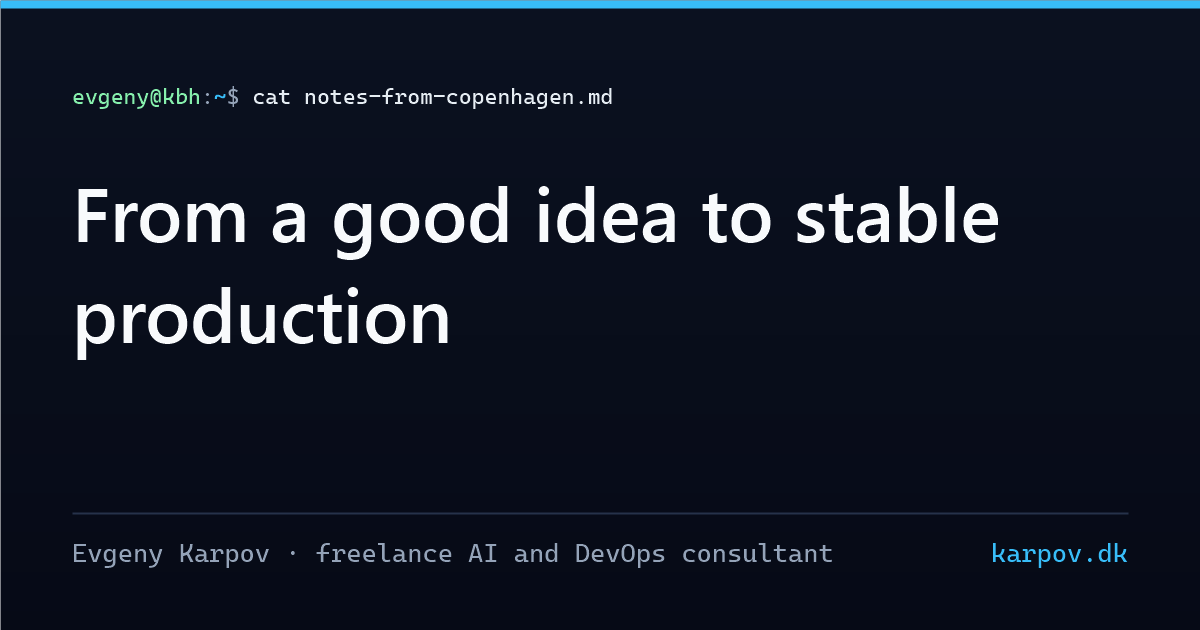
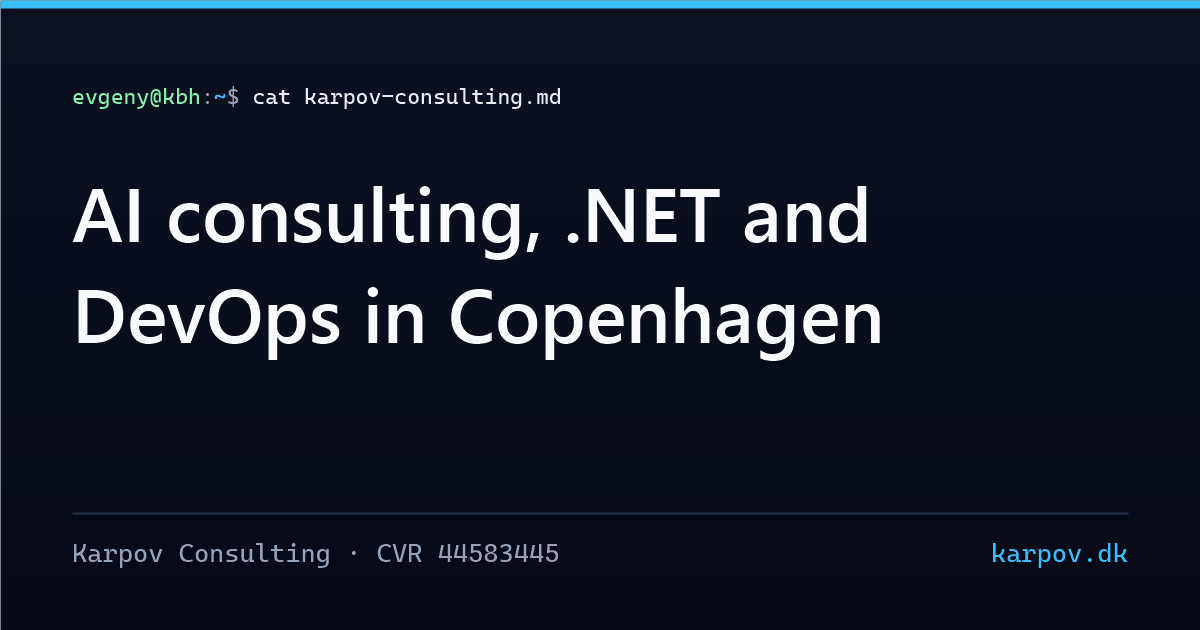
Round 3 review fixes: contract deliverables, clearer terms, polish
Round 3 scores: Claude 7.5/10, GPT-6.2 Sol 7/10. Changes:

- Portfolio: the contract section opens with the Arbejdstilsynet and
  MyPaperFlow proof and lists typical tasks instead of job titles; no
  repeated "where development and operations meet" lines.
- MyPaperFlow card labelled "Tidligere arbejde" / "Previous work" (it was
  employment at Boyum IT, not a contract).
- Vintønden card and case tell the same verifiable story, including the
  table-booking fix.
- AI page: AI experience in plain, checkable terms (owner's choice of
  general wording), the 4,500 kr. credit says what it is deducted from,
  the allergen example is replaced with an approved-text example.
- Home: offer note rewritten as a sentence; Danish long dates in lists.
- Contact: reply within one working day (owner confirmed).
- Blog list: the AI-assembled digest is left out of /posts/ (own tag
  page, linked from the intro) via a list.html override.
- Post CTA: two buttons, contract work linked in the text.
- Skip link keeps native focus (excluded from smooth scroll).
- Business JSON-LD url is the homepage.
- Share images for home and lists name the offer and the CVR.
- Phone: stacked buttons share one width. Typo "modellens" in a digest.

diff --git a/layouts/list.html b/layouts/list.html
@@ -1,0 +1,128 @@
+{{- /* Site override of PaperMod's list.html: identical except for the digest filter marked below. */ -}}
+{{- define "main" }}
+
+{{- if (and site.Params.profileMode.enabled .IsHome) }}
+{{- partial "index_profile.html" . }}
+{{- else }} {{/* if not profileMode */}}
+
+{{- if not .IsHome | and .Title }}
+<header class="page-header">
+  {{- partial "breadcrumbs.html" . }}
+  <h1>
+    {{ .Title }}
+    {{- if and (or (eq .Kind `term`) (eq .Kind `section`)) (.Param "ShowRssButtonInSectionTermList") }}
+    {{- with .OutputFormats.Get "rss" }}
+    <a href="{{ .RelPermalink }}" title="RSS" aria-label="RSS">
+      <svg xmlns="http://www.w3.org/2000/svg" viewBox="0 0 24 24" fill="none" stroke="currentColor" stroke-width="2"
+        stroke-linecap="round" stroke-linejoin="round" height="23">
+        <path d="M4 11a9 9 0 0 1 9 9" />
+        <path d="M4 4a16 16 0 0 1 16 16" />
+        <circle cx="5" cy="19" r="1" />
+      </svg>
+    </a>
+    {{- end }}
+    {{- end }}
+  </h1>
+  {{- if .Description }}
+  <div class="post-description">
+    {{ .Description | markdownify }}
+  </div>
+  {{- end }}
+</header>
+{{- end }}
+
+{{- if .Content }}
+<div class="post-content md-content">
+  {{- if not (.Param "disableAnchoredHeadings") }}
+  {{- partial "anchored_headings.html" .Content -}}
+  {{- else }}{{ .Content }}{{ end }}
+</div>
+{{- end }}
+
+{{- $pages := union .RegularPages .Sections }}
+
+{{- /* Site addition: the AI-assembled weekly digest is left out of the main blog list (it has its own
+       tag page, linked from the section intro), so the owner's own posts lead. */}}
+{{- if and (eq .Kind "section") (eq .Section "posts") }}
+{{- $pages = where $pages "Params.authorship" "!=" "ai-assembled-digest" }}
+{{- end }}
+
+{{- if .IsHome }}
+{{- $pages = where site.RegularPages "Type" "in" site.Params.mainSections }}
+{{- $pages = where $pages "Params.hiddenInHomeList" "!=" "true"  }}
+{{- end }}
+
+{{- $paginator := .Paginate $pages }}
+
+{{- if and .IsHome site.Params.homeInfoParams (eq $paginator.PageNumber 1) }}
+{{- partial "home_info.html" . }}
+{{- end }}
+
+{{- $term := .Data.Term }}
+{{- range $index, $page := $paginator.Pages }}
+
+{{- $class := "post-entry" }}
+
+{{- $user_preferred := or site.Params.disableSpecial1stPost site.Params.homeInfoParams }}
+{{- if (and $.IsHome (eq $paginator.PageNumber 1) (eq $index 0) (not $user_preferred)) }}
+{{- $class = "first-entry" }}
+{{- else if $term }}
+{{- $class = "post-entry tag-entry" }}
+{{- end }}
+
+<article class="{{ $class }}">
+  {{- $isHidden := (.Param "cover.hiddenInList") | default (.Param "cover.hidden") | default false }}
+  {{- partial "cover.html" (dict "cxt" . "IsSingle" false "isHidden" $isHidden) }}
+  <header class="entry-header">
+    <h2 class="entry-hint-parent">
+      {{- .Title }}
+      {{- if .Draft }}
+      <span class="entry-hint" title="Draft">
+        <svg xmlns="http://www.w3.org/2000/svg" height="20" viewBox="0 -960 960 960" fill="currentColor">
+          <path
+            d="M160-410v-60h300v60H160Zm0-165v-60h470v60H160Zm0-165v-60h470v60H160Zm360 580v-123l221-220q9-9 20-13t22-4q12 0 23 4.5t20 13.5l37 37q9 9 13 20t4 22q0 11-4.5 22.5T862.09-380L643-160H520Zm300-263-37-37 37 37ZM580-220h38l121-122-18-19-19-18-122 121v38Zm141-141-19-18 37 37-18-19Z" />
+        </svg>
+      </span>
+      {{- end }}
+    </h2>
+  </header>
+  {{- if (ne (.Param "hideSummary") true) }}
+  <div class="entry-content">
+    <p>{{ .Summary | plainify | htmlUnescape }}{{ if .Truncated }}...{{ end }}</p>
+  </div>
+  {{- end }}
+  {{- if not (.Param "hideMeta") }}
+  <footer class="entry-footer">
+    {{- partial "post_meta.html" . -}}
+  </footer>
+  {{- end }}
+  <a class="entry-link" aria-label="post link to {{ .Title | plainify }}" href="{{ .Permalink }}"></a>
+</article>
+{{- end }}
+
+{{- if gt $paginator.TotalPages 1 }}
+<footer class="page-footer">
+  <nav class="pagination">
+    {{- if $paginator.HasPrev }}
+    <a class="prev" href="{{ $paginator.Prev.URL | absURL }}">
+      «&nbsp;{{ i18n "prev_page" }}&nbsp;
+      {{- if (.Param "ShowPageNums") }}
+      {{- sub $paginator.PageNumber 1 }}/{{ $paginator.TotalPages }}
+      {{- end }}
+    </a>
+    {{- end }}
+    {{- if $paginator.HasNext }}
+    <a class="next" href="{{ $paginator.Next.URL | absURL }}">
+      {{- i18n "next_page" }}&nbsp;
+      {{- if (.Param "ShowPageNums") }}
+      {{- add 1 $paginator.PageNumber }}/{{ $paginator.TotalPages }}
+      {{- end }}&nbsp;»
+    </a>
+    {{- end }}
+  </nav>
+</footer>
+{{- end }}
+
+{{- end }}{{/* end profileMode */}}
+
+{{- end }}{{- /* end main */ -}}

diff --git a/layouts/partials/extend_post_content.html b/layouts/partials/extend_post_content.html
@@ -50,14 +50,11 @@
 {{- $subject := cond $isDA "Gratis samtale" "Free call" -}}
 {{- $email := site.Params.contactEmail -}}
 <aside class="contact-cta post-cta" aria-label="{{ if $isDA }}Kontakt{{ else }}Contact{{ end }}">
-  <p>{{ if $isDA }}<strong>Har du en opgave?</strong> Jeg hjælper mindre virksomheder med at få AI i brug til faste priser og tager kontraktopgaver inden for .NET, Azure DevOps og platform engineering. Den første samtale er gratis. Skriv til <a href="mailto:{{ $email }}">{{ $email }}</a>.{{ else }}<strong>Got a project?</strong> I help small businesses put AI to work at fixed prices, and I take contract work in .NET, Azure DevOps and platform engineering. The first call is free. Write to <a href="mailto:{{ $email }}">{{ $email }}</a>.{{ end }}</p>
+  <p>{{ if $isDA }}<strong>Har du en opgave?</strong> Jeg hjælper mindre virksomheder med at få AI i brug og tager {{ with $portfolio }}<a href="{{ .RelPermalink }}#kontraktopgaver">kontraktopgaver</a>{{ else }}kontraktopgaver{{ end }} inden for .NET, Azure DevOps og platform engineering. Den første samtale er gratis. Skriv til <a href="mailto:{{ $email }}">{{ $email }}</a>.{{ else }}<strong>Got a project?</strong> I help small businesses put AI to work, and I take {{ with $portfolio }}<a href="{{ .RelPermalink }}#contract-work">contract work</a>{{ else }}contract work{{ end }} in .NET, Azure DevOps and platform engineering. The first call is free. Write to <a href="mailto:{{ $email }}">{{ $email }}</a>.{{ end }}</p>
   <p class="cta-buttons">
     <a class="button button-primary" href="{{ printf "mailto:%s?subject=%s" $email (replace (urlquery $subject) "+" "%20") | safeURL }}">{{ if $isDA }}Aftal en gratis samtale{{ else }}Arrange a free call{{ end }}</a>
     {{- with site.GetPage "/ai-raadgivning" }}
     <a class="button button-secondary" href="{{ .RelPermalink }}">{{ if $isDA }}AI-rådgivning og priser{{ else }}AI consulting and prices{{ end }}</a>
-    {{- end }}
-    {{- with $portfolio }}
-    <a class="button button-secondary" href="{{ .RelPermalink }}#{{ if $isDA }}kontraktopgaver{{ else }}contract-work{{ end }}">{{ if $isDA }}Kontraktopgaver{{ else }}Contract work{{ end }}</a>
     {{- end }}
   </p>
 </aside>

diff --git a/layouts/home.html b/layouts/home.html
@@ -38,7 +38,7 @@
   <div class="section-heading section-heading-row">
     <div>
       <h2 id="offer-title">{{ if $isDA }}AI-rådgivning til mindre virksomheder{{ else }}AI consulting for small businesses{{ end }}</h2>
-      <p class="section-note">{{ if $isDA }}Fx udkast til svar på bordbestillinger og anmeldelser eller bilag, der havner direkte i bogføringen. Introduktionspriser for aftaler indgået til og med 31. marts 2027, ekskl. moms.{{ else }}For example draft replies to booking requests and reviews, or receipts that go straight into your accounts. Introductory prices for agreements made on or before 31 March 2027, excluding VAT.{{ end }}</p>
+      <p class="section-note">{{ if $isDA }}Typiske første opgaver: udkast til svar på bordbestillinger og anmeldelser, og bilag, der lægges direkte ind i bogføringen. Introduktionspriser for aftaler indgået til og med 31. marts 2027. Alle priser er ekskl. moms.{{ else }}Typical first tasks: draft replies to booking requests and reviews, and receipts that go straight into your bookkeeping. Introductory prices for agreements made on or before 31 March 2027. All prices exclude VAT.{{ end }}</p>
     </div>
     <a class="text-link" href="{{ $aiPage.RelPermalink }}">{{ if $isDA }}Se priser og eksempler{{ else }}See prices and examples{{ end }}</a>
   </div>
@@ -84,7 +84,7 @@
   <div class="latest-list">
     {{- range first 5 $posts.ByDate.Reverse }}
     <article class="latest-item">
-      <time datetime="{{ .Date.Format "2006-01-02" }}">{{ .Date | time.Format "2006-01-02" }}</time>
+      <time datetime="{{ .Date.Format "2006-01-02" }}">{{ .Date | time.Format ":date_long" }}</time>
       <div>
         <h3><a href="{{ .RelPermalink }}">{{ .Title }}</a></h3>
         <p>{{ .Summary | plainify }}</p>
@@ -108,7 +108,7 @@
   <div class="latest-list latest-list-compact">
     {{- range first 3 .ByDate.Reverse }}
     <article class="latest-item">
-      <time datetime="{{ .Date.Format "2006-01-02" }}">{{ .Date | time.Format "2006-01-02" }}</time>
+      <time datetime="{{ .Date.Format "2006-01-02" }}">{{ .Date | time.Format ":date_long" }}</time>
       <div>
         <h3><a href="{{ .RelPermalink }}">{{ .Title }}</a></h3>
       </div>

diff --git a/layouts/partials/footer.html b/layouts/partials/footer.html
@@ -50,7 +50,8 @@
         }
     }
 
-    document.querySelectorAll('a[href^="#"]').forEach(anchor => {
+    /* The skip link keeps the browser's own jump, which also moves keyboard focus to <main>. */
+    document.querySelectorAll('a[href^="#"]:not(.skip-link)').forEach(anchor => {
         anchor.addEventListener("click", function (e) {
             e.preventDefault();
             var id = this.getAttribute("href").substr(1);

diff --git a/assets/css/extended/custom.css b/assets/css/extended/custom.css
@@ -797,6 +797,14 @@ summary:focus-visible {
   }
 }
 
+/* Stacked buttons on phones share one width instead of hugging their labels. */
+@media (max-width: 480px) {
+  .hero-actions .button,
+  .post-content .cta-buttons a.button {
+    width: 100%;
+  }
+}
+
 @media (max-width: 900px) {
   .header-nav {
     min-height: 60px;

diff --git a/layouts/partials/schema-business.html b/layouts/partials/schema-business.html
@@ -4,7 +4,6 @@
 {{- $person := partial "schema-person.html" . -}}
 {{- $isDA := eq .Lang "da" -}}
 {{- $url := site.Home.Permalink -}}
-{{- with site.GetPage "/kontakt" -}}{{- $url = .Permalink -}}{{- end -}}
 {{- $business := dict
   "@type" "ProfessionalService"
   "@id" (printf "%s#business" (absURL "/"))

diff --git a/content/ai-raadgivning/index.md b/content/ai-raadgivning/index.md
@@ -49,7 +49,7 @@ showtoc: false
 
 Bruger I tid på de samme mails, bilag eller bookinger hver uge? Jeg er freelance AI-konsulent i København og hjælper mindre virksomheder med at finde de opgaver, hvor AI kan spare tid, og bygger en løsning, I kan bruge i hverdagen.
 
-Det starter med en gratis samtale på 20 minutter. Giver det mening at gå videre, koster en AI-afklaring 4.500 kr. ekskl. moms: et møde på 2–3 timer og en skriftlig anbefaling med priser for at bygge og drive løsningen. Anbefalingen kan I bruge selv eller tage med til en anden leverandør, og går I videre med en automatisering hos mig, trækker jeg de 4.500 kr. fra. [Se alle priser](#priser).
+Det starter med en gratis samtale på 20 minutter. Giver det mening at gå videre, koster en AI-afklaring 4.500 kr. ekskl. moms: et møde på 2–3 timer og en skriftlig anbefaling med priser for at bygge og drive løsningen. Anbefalingen kan I bruge selv eller tage med til en anden leverandør, og vælger I at få mig til at bygge automatiseringen, trækker jeg de 4.500 kr. fra den aftalte pris for automatiseringen. [Se alle priser](#priser).
 
 {{< contact-button >}}
 
@@ -67,7 +67,7 @@ Det behøver ikke være stort. Typiske første opgaver i en butik, en café elle
 
 - **Bookinger og forespørgsler.** AI'en læser mails om bordbestilling, selskaber og events, sorterer dem og skriver et udkast til svar, som I godkender, før det bliver sendt.
 - **Anmeldelser.** Udkast til svar på Google-anmeldelser i jeres egen tone, på dansk og engelsk.
-- **Menukort og allergener.** Oversættelse af menu, allergenliste og åbningstider, så hjemmeside og Google viser det samme.
+- **Menukort og åbningstider.** Udkast til oversættelser af menutekster og opslag om ændrede åbningstider. I godkender teksten, før den bliver lagt ud.
 - **Fakturaer og bilag.** Beløb, dato og leverandør hentes ud af PDF'er og billeder og lægges i et regneark eller jeres bogføringsprogram.
 - **Ugens overblik.** En kort opsummering hver mandag morgen af bookinger, salg eller henvendelser, så I ikke selv skal samle tallene.
 
@@ -77,7 +77,7 @@ Priserne er introduktionspriser og gælder for aftaler, der indgås til og med 3
 
 {{< offers >}}
 
-Alle priser er ekskl. moms. Går I videre med en automatisering, trækker jeg prisen for afklaringen fra.
+Alle priser er ekskl. moms. Vælger I at få mig til at bygge automatiseringen, trækker jeg de 4.500 kr. for afklaringen fra den aftalte pris for automatiseringen.
 
 {{< contact-button >}}
 
@@ -91,7 +91,7 @@ Alle priser er ekskl. moms. Går I videre med en automatisering, trækker jeg pr
 ## Hvorfor mig
 
 - **Jeg arbejder allerede for en lokal virksomhed.** For baren [Vintønden](/projekter/#vintonden) på Frederiksberg har jeg siden maj 2026 lavet sider på dansk, engelsk og spansk, rettet bookingflowet og tilføjet strukturerede oplysninger om baren og dens arrangementer i deres WordPress-site.
-- **Jeg har arbejdet med AI-automatisering i lang tid.** I mit tidligere arbejde har jeg bygget mange DevOps-pipelines, også med AI-automatisering i selve pipelinen. Mine egne [planlagte agenter](/projekter/#scouts) læser hver morgen nye events, tilbud og research, sorterer dem og lægger et kort udvalg frem til mig. Det er samme mønster som at sortere bookingmails og skrive udkast til svar.
+- **Jeg har bygget automatiseringer med AI.** I tidligere job har jeg lagt AI-trin ind i DevOps-pipelines. Mine egne [agenter](/projekter/#scouts) gennemgår hver morgen nye arrangementer, tilbud og artikler og viser mig et kort udvalg. Det samme princip kan bruges til at sortere bookingmails, før en medarbejder svarer.
 - **Jeg kender forskel på en demo og drift.** Jeg har mere end seks års erfaring med softwareudvikling, DevOps og systemer, der skal køre hver dag. En automatisering, der fejler stille, er værre end ingen automatisering.
 - **Jeg er ikke bundet til én leverandør.** Jeg har kørt de samme opgaver på amerikanske, kinesiske og europæiske modeller, også hos en europæisk cloududbyder, og vælger efter opgaven, prisen og hvor data ender. Jeg får ingen provision fra de leverandører, jeg anbefaler.
 - **Sikkerhed er med fra start.** Læs, [hvordan jeg arbejder med sikkerhed](/projekter/#sikkerhed) i mine egne agentsystemer.

diff --git a/content/ai-raadgivning/index.en.md b/content/ai-raadgivning/index.en.md
@@ -50,7 +50,7 @@ showtoc: false
 
 Do the same emails, receipts or bookings take up your time every week? I am a freelance AI consultant in Copenhagen. I help small businesses find tasks where AI can save time and build a solution their team can use every day.
 
-It starts with a free 20-minute call. If it makes sense to go further, an AI assessment costs DKK 4,500 excluding VAT: a 2–3 hour meeting and a written recommendation with what it costs to build and run the solution. You can use the recommendation yourself or take it to another provider, and if you ask me to build the automation, I deduct the DKK 4,500. [See all prices](#prices).
+It starts with a free 20-minute call. If it makes sense to go further, an AI assessment costs DKK 4,500 excluding VAT: a 2–3 hour meeting and a written recommendation with what it costs to build and run the solution. You can use the recommendation yourself or take it to another provider, and if you hire me to build the automation, I deduct the DKK 4,500 assessment fee from the agreed build price. [See all prices](#prices).
 
 I work in English and Danish, in Copenhagen or remote.
 
@@ -70,7 +70,7 @@ It does not have to be big. Typical first tasks in a shop, a café or a small of
 
 - **Bookings and enquiries.** The AI reads emails about table bookings, private parties and events, sorts them and drafts a reply that you approve before it is sent.
 - **Reviews.** Draft replies to Google reviews in your own tone, in English and Danish.
-- **Menus and allergens.** Translating the menu, the allergen list and opening hours, so your website and Google show the same thing.
+- **Menus and opening hours.** Draft translations of menu copy and updates about changed opening hours. You approve the wording before it goes live.
 - **Invoices and receipts.** Amount, date and supplier are pulled out of PDFs and photos and put into a spreadsheet or your accounting software.
 - **The week at a glance.** A short summary every Monday morning of bookings, sales or enquiries, so you do not have to gather the numbers yourself.
 
@@ -80,7 +80,7 @@ These are introductory prices and apply to agreements made on or before 31 March
 
 {{< offers >}}
 
-All prices are in Danish kroner (DKK) and exclude Danish VAT. If you go on to an automation, I deduct the price of the assessment.
+All prices are in Danish kroner (DKK) and exclude Danish VAT. If you hire me to build the automation, I deduct the DKK 4,500 assessment fee from the agreed build price.
 
 {{< contact-button >}}
 
@@ -94,7 +94,7 @@ All prices are in Danish kroner (DKK) and exclude Danish VAT. If you go on to an
 ## Why me
 
 - **I already work for a local business.** Since May 2026, I have built Danish, English and Spanish pages for the bar [Vintønden](/en/projects/#vintonden) in Frederiksberg, fixed its booking flow and added structured information about the bar and its events to its WordPress site.
-- **I have worked with AI automation for a long time.** In my previous jobs I built many DevOps pipelines, including AI automation inside the pipelines themselves. Every morning my own [scheduled agents](/en/projects/#scouts) read new events, offers and research, sort them and put a short selection in front of me. It is the same pattern as sorting booking emails and drafting replies.
+- **I've built automations that use AI.** In previous roles, I added AI steps to DevOps pipelines. Every morning, my own [agents](/en/projects/#scouts) sort new events, offers and research and show me a shortlist. The same approach can sort booking emails before a member of staff replies.
 - **I know the difference between a demo and operations.** I have more than six years of experience with software development, DevOps and systems that have to run every day. An automation that fails silently is worse than no automation.
 - **I am not tied to one vendor.** I have run the same tasks on American, Chinese and European models, including with a European cloud provider, and I choose by the task, the price and where the data ends up. I receive no commission from the providers I recommend.
 - **Security is there from the start.** Read [how I work with security](/en/projects/#security) in my own agent systems.

diff --git a/content/projekter/index.en.md b/content/projekter/index.en.md
@@ -13,23 +13,20 @@ ShowShareButtons: false
 ShowWordCount: false
 ---
 
-I take on .NET, Azure DevOps and cloud infrastructure contracts. For [the Danish Working Environment Authority](#arbejdstilsynet) (through twoday), I helped set up a new test environment and improved CI/CD pipelines. At [MyPaperFlow](#mypaperflow), I improved autoscaling with KEDA and Azure Service Bus.
-
-I work where software development and operations meet: application code, pipelines, cloud infrastructure, deployments and the problems that only show up once a system runs in production.
+I help teams with .NET, Azure DevOps and cloud infrastructure, and small businesses with AI.
 
 ## Contract work {#contract-work}
 
-I take freelance and contract work in Greater Copenhagen, hybrid or remote. I am strongest where backend development, DevOps and platform work meet.
+I take freelance and contract work in Greater Copenhagen, hybrid or remote. For [the Danish Working Environment Authority](#arbejdstilsynet) (through twoday), I helped set up a new test environment and improved CI/CD pipelines. At [MyPaperFlow](#mypaperflow), I improved autoscaling with KEDA and Azure Service Bus.
 
-I can contribute as:
+Typical tasks:
 
-- DevOps Engineer
-- Platform Engineer
-- Site Reliability Engineer
-- Backend Developer with DevOps/platform responsibility
-- .NET Engineer close to infrastructure and delivery
-
-My value is that I understand both application code and the systems that build, deploy, monitor and operate it.
+- Building and improving CI/CD pipelines and release flows in Azure DevOps
+- Infrastructure as code with Bicep or Terraform, so environments can be recreated
+- Deployments, autoscaling and troubleshooting with Docker, Kubernetes and Helm
+- .NET backend: new features, upgrades and legacy code that has to keep running
+- Logs, metrics and tracing, so problems are caught before users notice them
+- Security in delivery: vulnerable dependencies, secrets and access without long-lived keys
 
 <div class="contact-cta">
 
@@ -67,6 +64,7 @@ Vintønden is a bar in Frederiksberg that I do ongoing work for. I work directly
 
 #### My contribution
 
+- Fixed the website's table-booking flow
 - Structured data for the bar, its events and frequently asked questions
 - Pages in Danish, English and Spanish with correct hreflang
 - Metadata and sitemap clean-up, verified against the public site

diff --git a/content/projekter/index.md b/content/projekter/index.md
@@ -12,23 +12,20 @@ ShowShareButtons: false
 ShowWordCount: false
 ---
 
-Jeg tager kontraktopgaver inden for .NET, Azure DevOps og cloud-infrastruktur. For [Arbejdstilsynet](#arbejdstilsynet) (via twoday) var jeg med til at etablere et nyt testmiljø og forbedrede CI/CD-pipelines. På [MyPaperFlow](#mypaperflow) forbedrede jeg autoskaleringen med KEDA og Azure Service Bus.
-
-Jeg arbejder, hvor softwareudvikling og drift mødes: applikationskode, pipelines, cloud-infrastruktur, deployments og de problemer, der først viser sig, når systemet kører i produktion.
+Jeg hjælper teams med .NET, Azure DevOps og cloud-infrastruktur, og mindre virksomheder med AI.
 
 ## Kontraktopgaver {#kontraktopgaver}
 
-Jeg tager freelance- og kontraktopgaver i Storkøbenhavn, hybrid eller remote. Jeg er stærkest, hvor backendudvikling, DevOps og platformarbejde mødes.
+Jeg tager freelance- og kontraktopgaver i Storkøbenhavn, hybrid eller remote. For [Arbejdstilsynet](#arbejdstilsynet) (via twoday) var jeg med til at etablere et nyt testmiljø og forbedrede CI/CD-pipelines. På [MyPaperFlow](#mypaperflow) forbedrede jeg autoskaleringen med KEDA og Azure Service Bus.
 
-Jeg kan bidrage som:
+Typiske opgaver:
 
-- DevOps Engineer
-- Platform Engineer
-- Site Reliability Engineer
-- Backend Developer med DevOps/platform-ansvar
-- .NET Engineer tæt på infrastruktur og delivery
-
-Min værdi er, at jeg både forstår applikationskode og de systemer, der skal bygge, deploye, monitorere og drifte den.
+- Bygge og forbedre CI/CD-pipelines og release-flows i Azure DevOps
+- Infrastructure as code med Bicep eller Terraform, så miljøer kan genskabes
+- Deployments, autoskalering og fejlsøgning med Docker, Kubernetes og Helm
+- .NET-backend: nye features, opgraderinger og legacy, der skal holdes kørende
+- Logs, metrics og tracing, så fejl bliver opdaget, før brugerne opdager dem
+- Sikkerhed i leverancen: sårbare afhængigheder, secrets og adgang uden langlivede nøgler
 
 <div class="contact-cta">
 
@@ -65,6 +62,7 @@ Vintønden er en bar på Frederiksberg, som jeg løbende løser opgaver for. Jeg
 
 ### Mit bidrag
 
+- Rettede bordbookingen på hjemmesiden
 - Structured data til baren, events og ofte stillede spørgsmål
 - Sider på dansk, engelsk og spansk med korrekt hreflang
 - Oprydning i metadata og sitemap, verificeret mod det offentlige site

diff --git a/content/posts/ugens-ai-research-2026-11-01.md b/content/posts/ugens-ai-research-2026-11-01.md
@@ -6,8 +6,8 @@ slug: "ugens-ai-research-2026-11-01"
 translationKey: "ugens-ai-research-2026-11-01"
 draft: false
 authorship: "ai-assembled-digest"
-description: "Tre nye preprints samler sig om agentdrift: RCA-harnesses bør bevare modelens adgang til evidens, agentarbejde skal kunne dokumentere afslutning, og context-reduktion skal måles på reel pris og adfærd frem for tokenforbrug alene."
-summary: "Tre nye preprints samler sig om agentdrift: RCA-harnesses bør bevare modelens adgang til evidens, agentarbejde skal kunne dokumentere afslutning, og context-reduktion skal måles på reel pris og adfærd frem for tokenforbrug alene."
+description: "Tre nye preprints samler sig om agentdrift: RCA-harnesses bør bevare modellens adgang til evidens, agentarbejde skal kunne dokumentere afslutning, og context-reduktion skal måles på reel pris og adfærd frem for tokenforbrug alene."
+summary: "Tre nye preprints samler sig om agentdrift: RCA-harnesses bør bevare modellens adgang til evidens, agentarbejde skal kunne dokumentere afslutning, og context-reduktion skal måles på reel pris og adfærd frem for tokenforbrug alene."
 tags: ["AI", "Research", "AI Agents", "Platform Engineering"]
 categories: ["AI", "Research"]
 author: "Evgeny Karpov"

diff --git a/content/kontakt/index.md b/content/kontakt/index.md
@@ -13,7 +13,7 @@ ShowWordCount: false
 showtoc: false
 ---
 
-Den første samtale er gratis og tager 20 minutter. Skriv kort, hvad du gerne vil have hjælp til, så foreslår jeg et par tidspunkter.
+Den første samtale er gratis og tager 20 minutter. Skriv kort, hvad du gerne vil have hjælp til, så foreslår jeg et par tidspunkter. Jeg svarer inden for én arbejdsdag.
 
 {{< contact-button >}}
 
